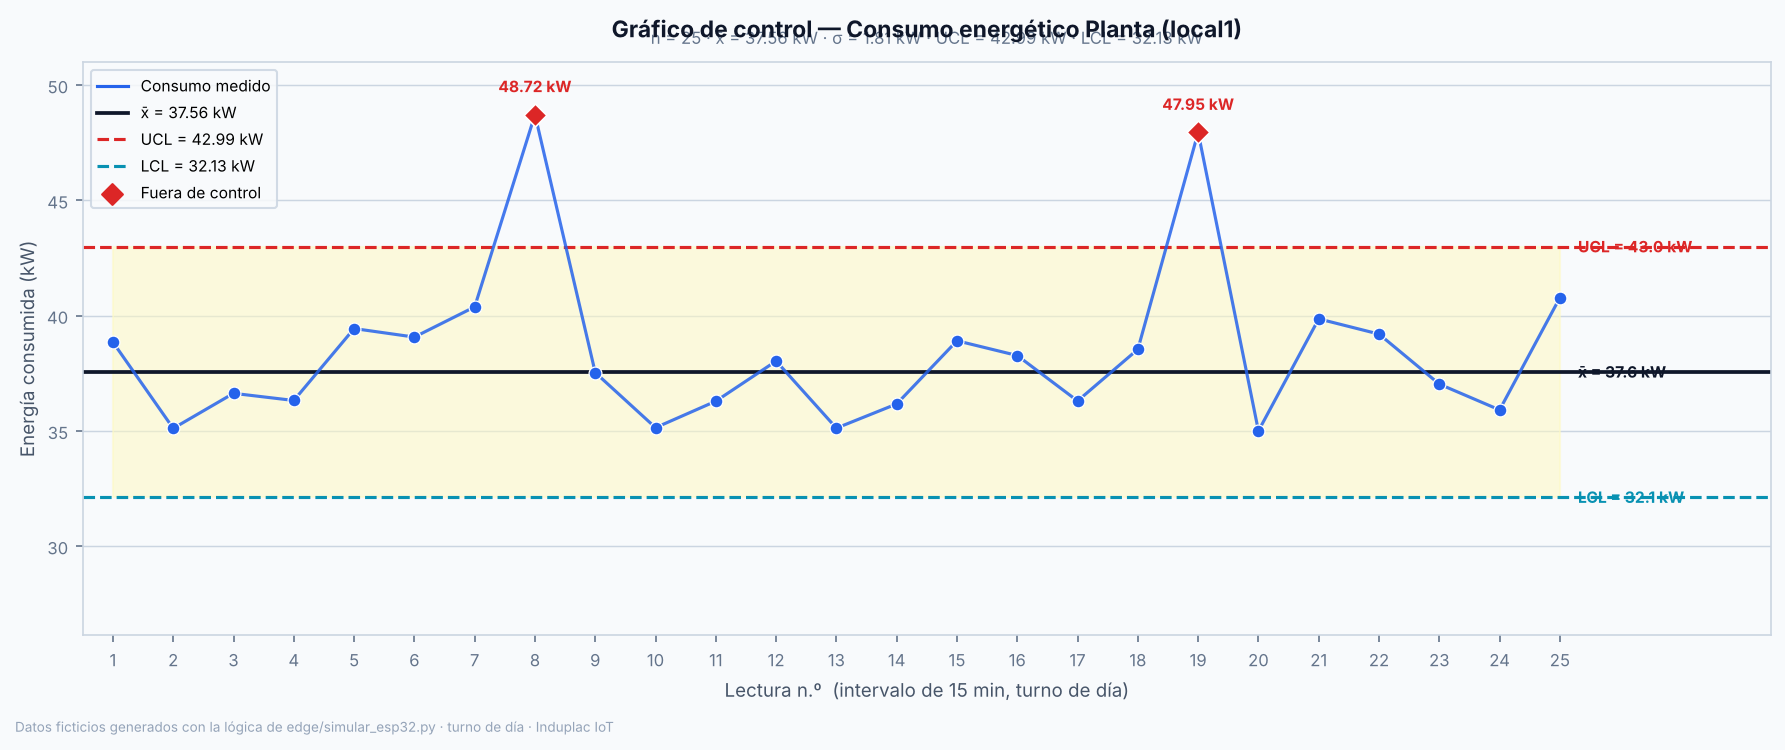
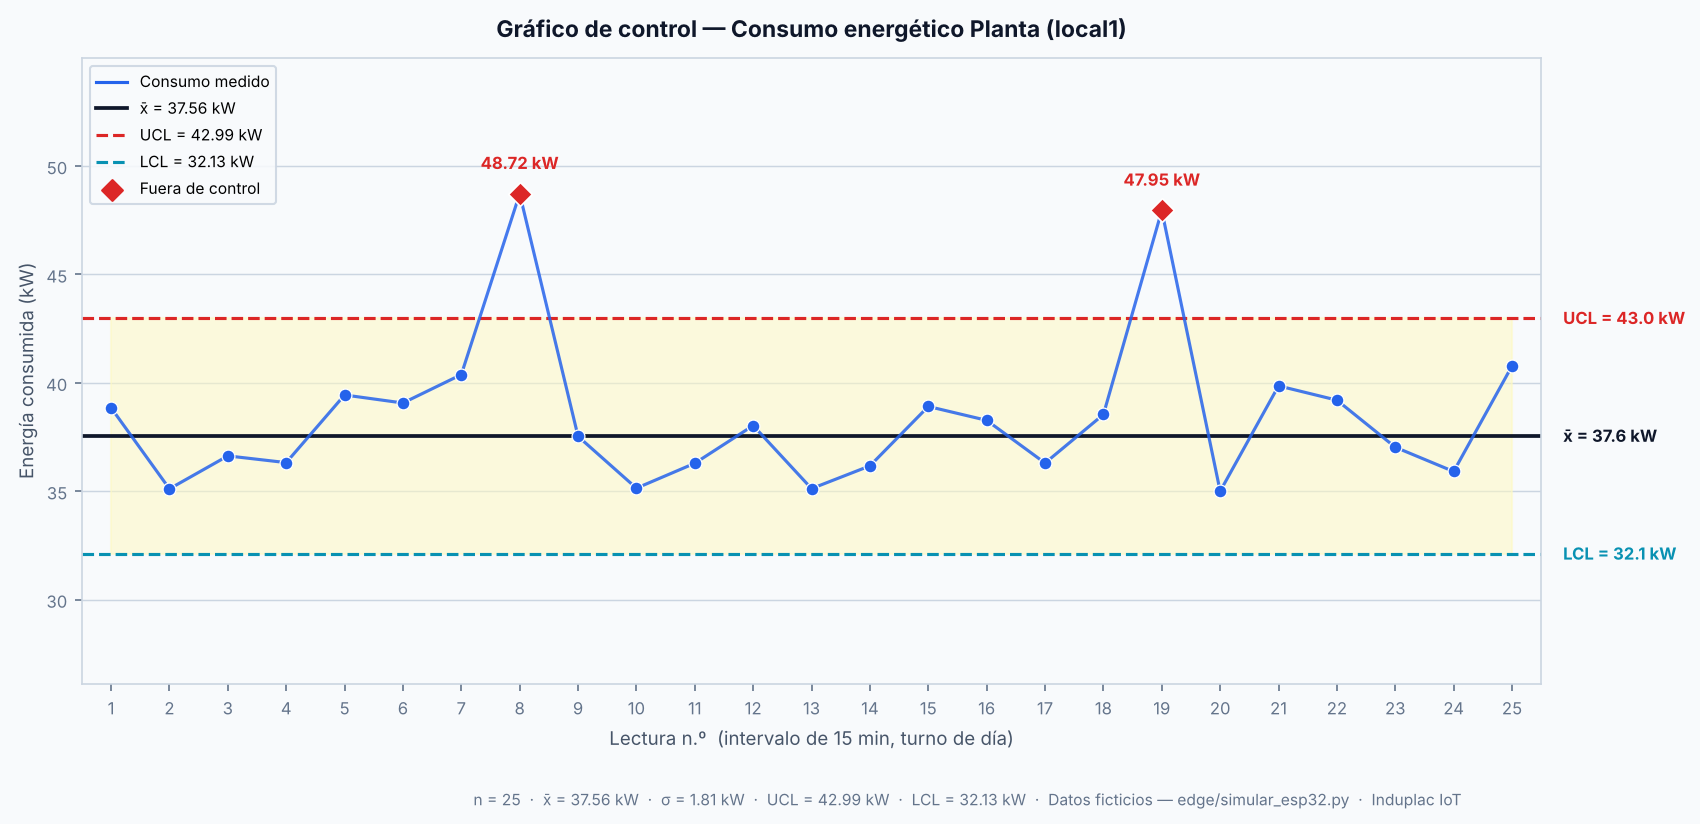
fix: correcciones al gráfico de control según revisión de Abraham (tarea 42)
1. Sección 4 — umbrales corregidos: 45 kW es solo advertencia (amarillo),
   la alerta sin historia requiere > 55 kW (ENERGIA_FIJA_CRITICO).
   Los picos (48.72 y 47.95 kW) habrían disparado alerta solo con historia
   acumulada (+20 % sobre 37.56 kW = 45.07 kW). Tabla de tres niveles
   (alerta con historia / alerta fija / UCL estadístico) para que quede claro.
2. Gráfico regenerado: subtítulo movido debajo del área del plot,
   etiquetas UCL/x̄/LCL posicionadas fuera del borde derecho (no se
   superponen con las líneas), zona de control descrita como "amarilla pálida".
3. Tabla con los 25 valores en §2.3 — evidencia verificable y reproducible
   (seed = 42).
4. Frase del PPT corregida: "habría alertado" en lugar de "alertó".
5. EN-CURSO.md: tarea 42 marcada ✅ Listo con resumen de lo entregado.

Claude-Session: https://claude.ai/code/session_012MPQM8ALPApqb4iDAXnsXu

diff --git a/docs/nota-3/grafico-control.md b/docs/nota-3/grafico-control.md
@@ -1,9 +1,9 @@
 # 📊 Gráfico de control — Consumo energético Planta
 
 > **Autor:** Sebastián Fuentes. Tarea 42 de [`EN-CURSO.md`](../EN-CURSO.md) · criterio 8 de la pauta ([`nota-3.md`](../nota-3.md), herramientas de calidad, IL 4.6, 15 %).
-> Basado en la lógica de simulación de `edge/simular_esp32.py` y en la regla de alerta por consumo de `edge/reglas.py`. Estado al **22/11/2026**.
+> Basado en la lógica de simulación de `edge/simular_esp32.py` y en las reglas de alerta de `edge/reglas.py`. Estado al **22/11/2026**.
 
-**En resumen:** un gráfico de control es una herramienta SPC (Control Estadístico de Procesos) que distingue la variación normal de un proceso de los eventos que tienen una causa especial y merecen atención. Lo usamos para visualizar el consumo eléctrico de la Planta durante un turno de día, comprobar que el comportamiento habitual es estable y confirmar que los dos picos simulados a propósito —que superan el umbral del +20 % que usa el Edge para lanzar una alerta— se detectan correctamente como puntos fuera de control.
+**En resumen:** un gráfico de control es una herramienta SPC (Control Estadístico de Procesos) que distingue la variación normal de un proceso de los eventos que tienen una causa especial y merecen atención. Lo usamos para visualizar el consumo eléctrico de la Planta durante un turno de día, comprobar que el comportamiento habitual es estable y confirmar que los dos picos simulados a propósito —que superan tanto el UCL estadístico como el umbral de alerta del Edge con historia (+20 %)— quedarían detectados como anomalías.
 
 ---
 
@@ -20,7 +20,7 @@ Un punto dentro de los límites indica **variación común**: el proceso funcion
 Lo elegimos para Induplac porque:
 
 1. El consumo eléctrico de la Planta tiene una variación natural (máquinas encendiéndose en distintos momentos, temperatura ambiente, número de operarios). Sin una referencia estadística, es difícil saber cuándo un consumo alto es normal y cuándo es una anomalía real.
-2. La regla de alerta que ya tiene el Edge (`energía actual > promedio histórico × 1.20`) es, en esencia, un umbral de control operacional. El gráfico de control le pone un respaldo estadístico: **muestra que los dos eventos que disparan la alerta también superan el UCL calculado con los datos del turno**.
+2. La regla de alerta que tiene el Edge (`energía actual > promedio histórico × 1.20`) es, en esencia, un umbral de control operacional. El gráfico de control le pone un respaldo estadístico: **los mismos eventos que superan el UCL también superarían la regla del +20 %**.
 3. Es una herramienta de calidad concreta y trazable, diferente del Ishikawa (que ordena causas) y del plan de pruebas (que verifica el software): aquí medimos la **estabilidad del proceso físico** que el sistema monitorea.
 
 ## 2. Cómo lo hicimos
@@ -31,7 +31,7 @@ No tenemos sensores físicos en el Learner Lab, así que usamos la misma lógica
 
 - **Base:** 38 kW ± 8 % (rango normal de operación diurna según el simulador).
 - **Intervalo:** cada lectura representa un intervalo de 15 minutos (el intervalo de agregación del Edge).
-- **Picos simulados:** dos lecturas se fijaron a propósito en **48.72 kW** (lectura 8) y **47.95 kW** (lectura 19) para representar un arranque simultáneo de equipos de alto consumo, el tipo de evento que en Induplac activa la alerta de energía.
+- **Picos simulados:** dos lecturas se fijaron a propósito en **48.72 kW** (lectura 8) y **47.95 kW** (lectura 19) para representar un arranque simultáneo de equipos de alto consumo, el tipo de evento que en Induplac activa la alerta de energía cuando el sistema tiene historia acumulada.
 
 Los datos son completamente ficticios. Ningún dato pertenece a trabajadores ni a la empresa real (Ley 19.628).
 
@@ -52,13 +52,29 @@ En un análisis de Fase I se establece el proceso de referencia con los datos "b
 | **LCL** = x̄ − 3σ | **32.13 kW** |
 | Puntos fuera de control | lecturas **8** y **19** |
 
-### 2.3 El gráfico
+### 2.3 Las 25 lecturas (datos ficticios)
+
+| # | kW | Control | # | kW | Control | # | kW | Control |
+|--:|---:|:---:|--:|---:|:---:|--:|---:|:---:|
+| 1 | 38.85 | ✅ | 10 | 35.14 | ✅ | 19 | **47.95** | ❌ |
+| 2 | 35.11 | ✅ | 11 | 36.29 | ✅ | 20 | 35.00 | ✅ |
+| 3 | 36.63 | ✅ | 12 | 38.03 | ✅ | 21 | 39.86 | ✅ |
+| 4 | 36.32 | ✅ | 13 | 35.12 | ✅ | 22 | 39.20 | ✅ |
+| 5 | 39.44 | ✅ | 14 | 36.17 | ✅ | 23 | 37.03 | ✅ |
+| 6 | 39.07 | ✅ | 15 | 38.91 | ✅ | 24 | 35.91 | ✅ |
+| 7 | 40.38 | ✅ | 16 | 38.27 | ✅ | 25 | 40.78 | ✅ |
+| **8** | **48.72** | ❌ | 17 | 36.30 | ✅ | | | |
+| 9 | 37.53 | ✅ | 18 | 38.54 | ✅ | | | |
+
+✅ dentro de control (32.13 – 42.99 kW) · ❌ fuera del UCL · Generados con `seed=42` (reproducibles)
+
+### 2.4 El gráfico
 
 ![Gráfico de control — Consumo energético Planta](img/grafico-control.png)
 
 El gráfico muestra:
 
-- La **zona verde pálida** entre LCL y UCL: variación normal del proceso.
+- La **zona amarilla pálida** entre LCL y UCL: variación normal del proceso.
 - Los **puntos azules**: lecturas dentro de control.
 - Los **rombos rojos** (lecturas 8 y 19): puntos fuera del UCL, con su valor anotado.
 - Las tres líneas de referencia con sus valores al margen derecho.
@@ -67,35 +83,44 @@ El gráfico muestra:
 
 El consumo de la Planta en turno de día es **estable**: 23 de 25 lecturas se mantienen entre 32 y 43 kW con poca variación (σ = 1.81 kW). Esa estabilidad confirma que el promedio histórico que usa el Edge como base para la alerta es representativo del comportamiento normal.
 
-Las lecturas 8 (48.72 kW) y 19 (47.95 kW) **superan el UCL** y están a **+29.7 %** y **+27.7 %** sobre el promedio base, respectivamente. Ambas superan también el umbral del +20 % de la regla de alerta del Edge. Esto significa que:
+Las lecturas 8 (48.72 kW) y 19 (47.95 kW) **superan el UCL** y están a **+29.7 %** y **+27.7 %** sobre el promedio base, respectivamente. Ambas son estadísticamente anómalas: no son variación normal, sino que tienen una causa asignable (en la simulación, un arranque simultáneo de equipos).
 
-> **El gráfico de control y la regla de alerta del sistema son consistentes:** un evento que el SPC clasifica como causa asignable también dispara la alerta en Induplac.
+## 4. Conexión con la alerta de energía del Edge
 
-## 4. Conexión con la alerta de energía del Edge (+20 %)
+La lógica de alertas del Edge (`edge/reglas.py`) distingue dos situaciones:
 
-La regla en `edge/reglas.py` lanza una alerta cuando:
+**Con historia acumulada (≥ 4 semanas):** la alerta usa el promedio histórico a la misma hora:
 
 ```
-energia_actual > promedio_historico × 1.20
+nivel "crítico"     → energia_kw > referencia × 1.20   (alerta real)
+nivel "advertencia" → energia_kw > referencia × 1.10   (solo indicador amarillo)
 ```
 
-Con el promedio base de 37.56 kW, el umbral operacional queda en **45.07 kW**. Los dos picos (48.72 y 47.95 kW) superan ese umbral, es decir, el Edge habría lanzado la alerta en ambos intervalos.
+Con x̄ = 37.56 kW, el umbral de alerta queda en **37.56 × 1.20 = 45.07 kW**. Las lecturas 8 (48.72 kW) y 19 (47.95 kW) **lo superan**: el Edge habría lanzado una alerta en ambos intervalos.
+
+**Sin historia (primeras 4 semanas):** el Edge usa umbrales fijos de respaldo:
+
+```python
+ENERGIA_FIJA_CRITICO      = 55  # kW → alerta
+ENERGIA_FIJA_ADVERTENCIA  = 45  # kW → solo nivel amarillo, sin alerta
+```
+
+Con los picos en 48.72 y 47.95 kW, el Edge **no habría lanzado alerta** (quedan entre 45 y 55 kW: nivel "advertencia"), aunque sí habría mostrado el indicador en amarillo en el dashboard. La alerta sin historia requiere superar los 55 kW.
 
 La relación entre las dos herramientas es complementaria:
 
-| Herramienta | Qué detecta | Límite |
+| Herramienta | Qué detecta | Umbral de alerta |
 |---|---|---|
-| Alerta del Edge (+20 %) | Consumo excesivo en tiempo real | 45.07 kW (dinámico, cambia con la historia) |
-| Gráfico de control (UCL) | Punto estadísticamente anómalo | 42.99 kW (calculado con 3σ del turno) |
+| Alerta del Edge con historia (+20 %) | Consumo excesivo vs. el comportamiento habitual | 45.07 kW (dinámico) |
+| Gráfico de control (UCL, 3σ) | Punto estadísticamente anómalo vs. el turno | 42.99 kW (estadístico) |
+| Alerta fija del Edge (sin historia) | Consumo extremo independiente del historial | 55 kW (fijo) |
 
-El UCL estadístico es más exigente que el umbral operacional en este conjunto de datos, lo que da una buena señal: **la alerta del Edge no es demasiado sensible** (no dispararía con la variación normal del proceso) y **sí captura los eventos que el SPC también marca como anómalos**.
-
-> ⚠ El umbral fijo de respaldo de 45 kW (usado cuando no hay historia) también habría capturado los dos picos. Esto confirma que el diseño del Edge es consistente con el comportamiento estadístico real del proceso.
+> **Conclusión:** el gráfico de control y la alerta del Edge *con historia* son consistentes: los mismos eventos que el SPC marca como causas asignables también habrían disparado la alerta. Con el sistema recién instalado (sin historia), esos mismos picos solo activarían el indicador amarillo, pero no la alerta, lo que refuerza la importancia de acumular al menos 4 semanas de datos antes del piloto real (ver [roadmap de transferencia](transferencia-tecnologica.md), etapa 1).
 
 ## 5. Para la presentación (1 diapositiva)
 
-- El gráfico de la sección 2.3 y, al lado, una tabla de tres filas: **x̄ = 37.56 kW · UCL = 42.99 kW · 2 puntos fuera de control**.
-- **Frase para decir:** *"No lo hicimos de adorno: lo generamos con los mismos datos simulados que usa el Edge, calculamos los límites estadísticamente y vimos que las dos lecturas altas que el sistema alertó también salen del UCL. El gráfico de control y la alerta del +20 % son consistentes."*
+- El gráfico de la sección 2.4 y, al lado, una tabla de tres filas: **x̄ = 37.56 kW · UCL = 42.99 kW · 2 puntos fuera de control**.
+- **Frase para decir:** *"No lo hicimos de adorno: lo generamos con los mismos datos simulados que usa el Edge, calculamos los límites estadísticamente y vimos que las dos lecturas altas que el sistema habría alertado también salen del UCL. El gráfico de control y la alerta del +20 % son consistentes."*
 
 ### Preguntas probables
 
@@ -103,5 +128,6 @@ El UCL estadístico es más exigente que el umbral operacional en este conjunto 
 |---|---|
 | ¿Por qué Fase I y no Fase II? | En Fase I se establece la línea base. Fase II sería monitoreo continuo, que en producción haría el Edge automáticamente con los datos reales. |
 | ¿Por qué los límites son distintos al umbral del Edge? | El UCL se calcula con σ de los datos del turno; el umbral del Edge usa el promedio histórico × 1.20. Son complementarios: uno es estadístico, el otro es operacional. |
+| ¿Los picos habrían generado alerta en el sistema real? | Con historia acumulada, sí (superan el +20 %). Sin historia (primeras 4 semanas), solo pondrían el indicador en amarillo, porque el umbral fijo de alerta es 55 kW y los picos están en ~48 kW. |
 | ¿Qué pasa si el promedio sube por estacionalidad? | El Edge recalcula su promedio con las últimas 4 semanas. En SPC se haría un nuevo análisis de Fase I con los datos del nuevo período. |
-| ¿Los datos son reales? | No. Son ficticios, generados con `edge/simular_esp32.py`. Los datos y sistemas reales de Induplac no se usan (Ley 19.628). |
+| ¿Los datos son reales? | No. Son ficticios, generados con `edge/simular_esp32.py` (seed = 42, reproducibles). Sin datos ni sistemas reales de Induplac (Ley 19.628). |

diff --git a/docs/EN-CURSO.md b/docs/EN-CURSO.md
@@ -87,7 +87,7 @@ Pauta del profesor: ver [`docs/pauta-entrega.md`](pauta-entrega.md). Lo marcado 
 | 39 | Nota 3 · SIPOC o diagrama de afinidad + qué decisiones cambió | Gestión del equipo (7) | ✅ Listo | Bárbara Saavedra (`barbaraantoniaa`) | 2026-11-14 | [PR #62](https://github.com/Aburahamu20/Induplac/pull/62) | `docs/nota-3/gestion-equipo.md`: lluvia de ideas (07/10) + diagrama de afinidad de 6 temas y las decisiones que cambió. |
 | 40 | Nota 3 · Diagrama de Ishikawa (causa-efecto) | Calidad (8) | ✅ Listo | Lisandra González (`lisagonzalez-jpg`) | 2026-11-18 | [PR #75](https://github.com/Aburahamu20/Induplac/pull/75) | `docs/nota-3/ishikawa.md` + `img/ishikawa.png`: 18 causas en 6M, cada una con su control. Detalle en [`nota-3.md`](nota-3.md). |
 | 41 | Nota 3 · Plan de pruebas e inspección (desde las pruebas del CI) | Calidad (8) | ✅ Listo | Abraham (con Claude) | 2026-11-17 | [PR #71](https://github.com/Aburahamu20/Induplac/pull/71) | Sugerido: Abraham. Detalle en [`nota-3.md`](nota-3.md). |
-| 42 | Nota 3 · Gráfico de control con los datos simulados de consumo | Calidad (8) | 🔵 En revisión | Sebastián Fuentes | 2026-11-22 | [PR #88](https://github.com/Aburahamu20/Induplac/pull/88) | Sugerido: Sebastián. Detalle en [`nota-3.md`](nota-3.md). |
+| 42 | Nota 3 · Gráfico de control con los datos simulados de consumo | Calidad (8) | ✅ Listo | Sebastián Fuentes | 2026-11-22 | [PR #88](https://github.com/Aburahamu20/Induplac/pull/88) | `docs/nota-3/grafico-control.md` + `img/grafico-control.png`: 25 lecturas · x̄ = 37.56 kW · UCL = 42.99 kW · 2 puntos fuera de control. Conexión con la alerta del +20 % del Edge. |
 | 43 | Nota 3 · Carpeta de evidencias (CI, ZAP, Ansible, API, dashboard) + grabación | Entregables | 🔵 Índice armado en [`evidencias.md`](nota-3/evidencias.md); se completa a medida que se termina cada parte | Abraham Castro (con Claude) + todos | 2026-11-18 | rama `tarea-43-evidencias` | Sugerido: Abraham + todos. Detalle en [`nota-3.md`](nota-3.md). |
 | 45 | README al día (estado, dashboard de 7 pantallas, roles, tecnologías con DevSecOps, roadmap, contribución) + CONTEXTO §6-7 | Entregables | ✅ Listo | Abraham (con Claude) | 2026-11-14 | [PR #61](https://github.com/Aburahamu20/Induplac/pull/61) | Para la Nota 3: es lo primero que ve el profe en el repo. |
 | 46 | Guía del equipo al día (para quien sabe poco del proyecto): roles, dashboard, demo, estado, DevOps explicado simple, API y backend, y preguntas de la Nota 3 | Entregables | ✅ Listo | Abraham (con Claude) | 2026-11-17 | [PR #65](https://github.com/Aburahamu20/Induplac/pull/65) | Estaba al 14/10. Base para que todos puedan defender la Nota 3. |
